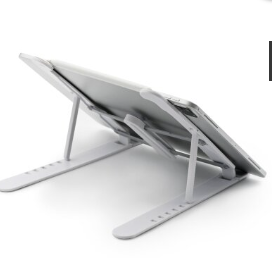
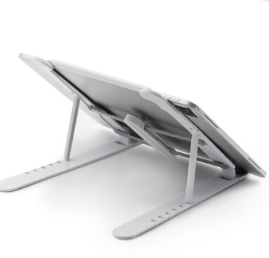
Refactor code structure for improved readability and maintainability

diff --git a/src/lib/gifts.ts b/src/lib/gifts.ts
@@ -40,7 +40,8 @@ export const gifts: Gift[] = [
   {
     id: "white-thermal-cup-with-straw-new",
     title: "כוס תרמוס עם קש",
-    description: "לבן חדשה 700 מל",
+    description: "לבן 700 מל",
+    image: "/gifts/white-thermal-cup-with-straw.png",
     stock: 1000,
   },
   {
@@ -81,7 +82,7 @@ export const gifts: Gift[] = [
   {
     id: "laptop-stand",
     title: "מעמד מחשב",
-    image: "/gifts/laptop-stand.png",
+    image: "/מעמד-למחשב.png",
     stock: 260,
   },
   {
@@ -124,13 +125,50 @@ export const gifts: Gift[] = [
     title: "תיק גב איכותי למחשב אפור",
     description: "אפור",
     image: "/gifts/quality-laptop-backpack.jpg",
-    stock: 1000,
+    stock: 0,
   },
   {
-    id: "personal-cooler-bag", // OSM2205
+    id: "black-quality-laptop-backpack",
+    title: "תיק גב איכותי למחשב",
+    description: "שחור",
+    image: "/gifts/black-quality-laptop-backpack.png",
+    stock: 0,
+  },
+  {
+    id: "blue-quality-laptop-backpack",
+    title: "תיק גב איכותי למחשב",
+    description: "כחול",
+    image: "/gifts/blue-quality-laptop-backpack.png",
+    stock: 0,
+  },
+
+  {
+    id: "black-lunch-cooler",
     title: "צידנית אישית",
-    image: "/gifts/personal-cooler-bag.png",
-    stock: 1000,
+    description: "שחור",
+    image: "/gifts/black-lunch-cooler.png",
+    stock: 250,
+  },
+  {
+    id: "blue-lunch-cooler",
+    title: "צידנית אישית",
+    description: "כחול",
+    image: "/gifts/blue-lunch-cooler.png",
+    stock: 250,
+  },
+  {
+    id: "cream-lunch-cooler",
+    title: "צידנית אישית",
+    description: "לבן",
+    image: "/gifts/cream-lunch-cooler.png",
+    stock: 250,
+  },
+  {
+    id: "gray-lunch-cooler",
+    title: "צידנית אישית",
+    description: "אפור",
+    image: "/gifts/gray-lunch-cooler.png",
+    stock: 250,
   },
   {
     id: "laptop-bag-osp4583f", // Osp4583F
